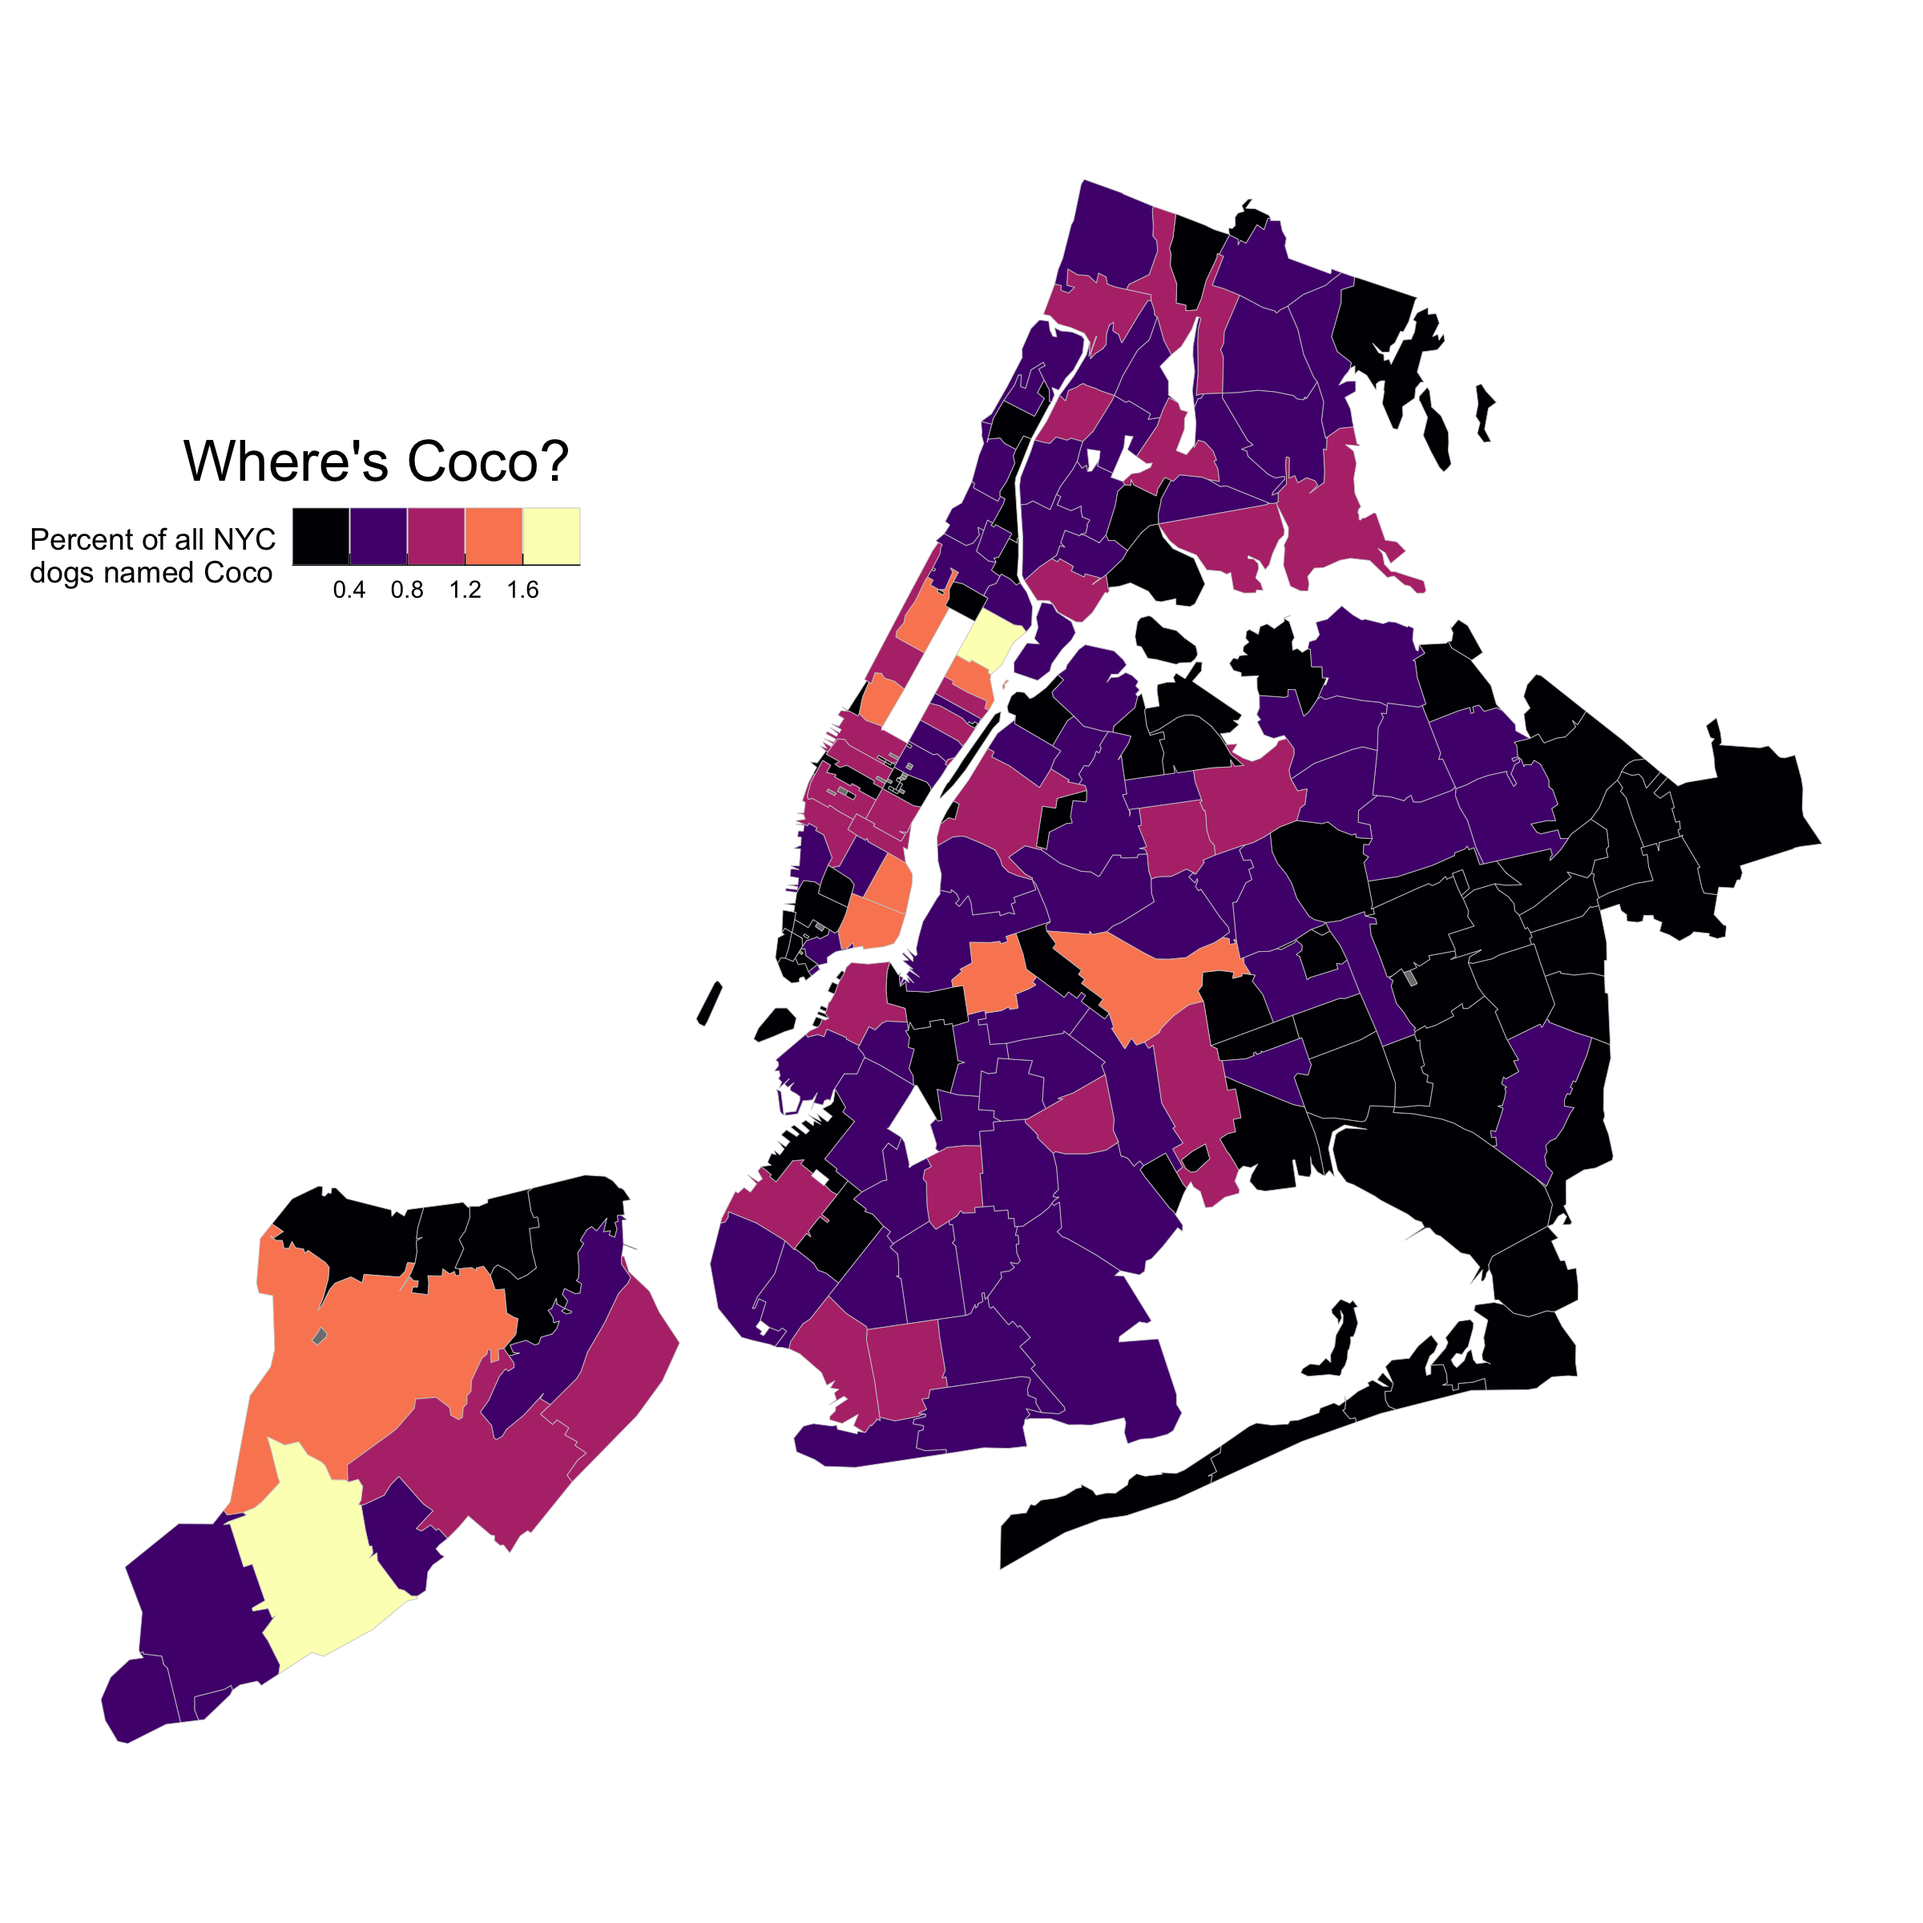
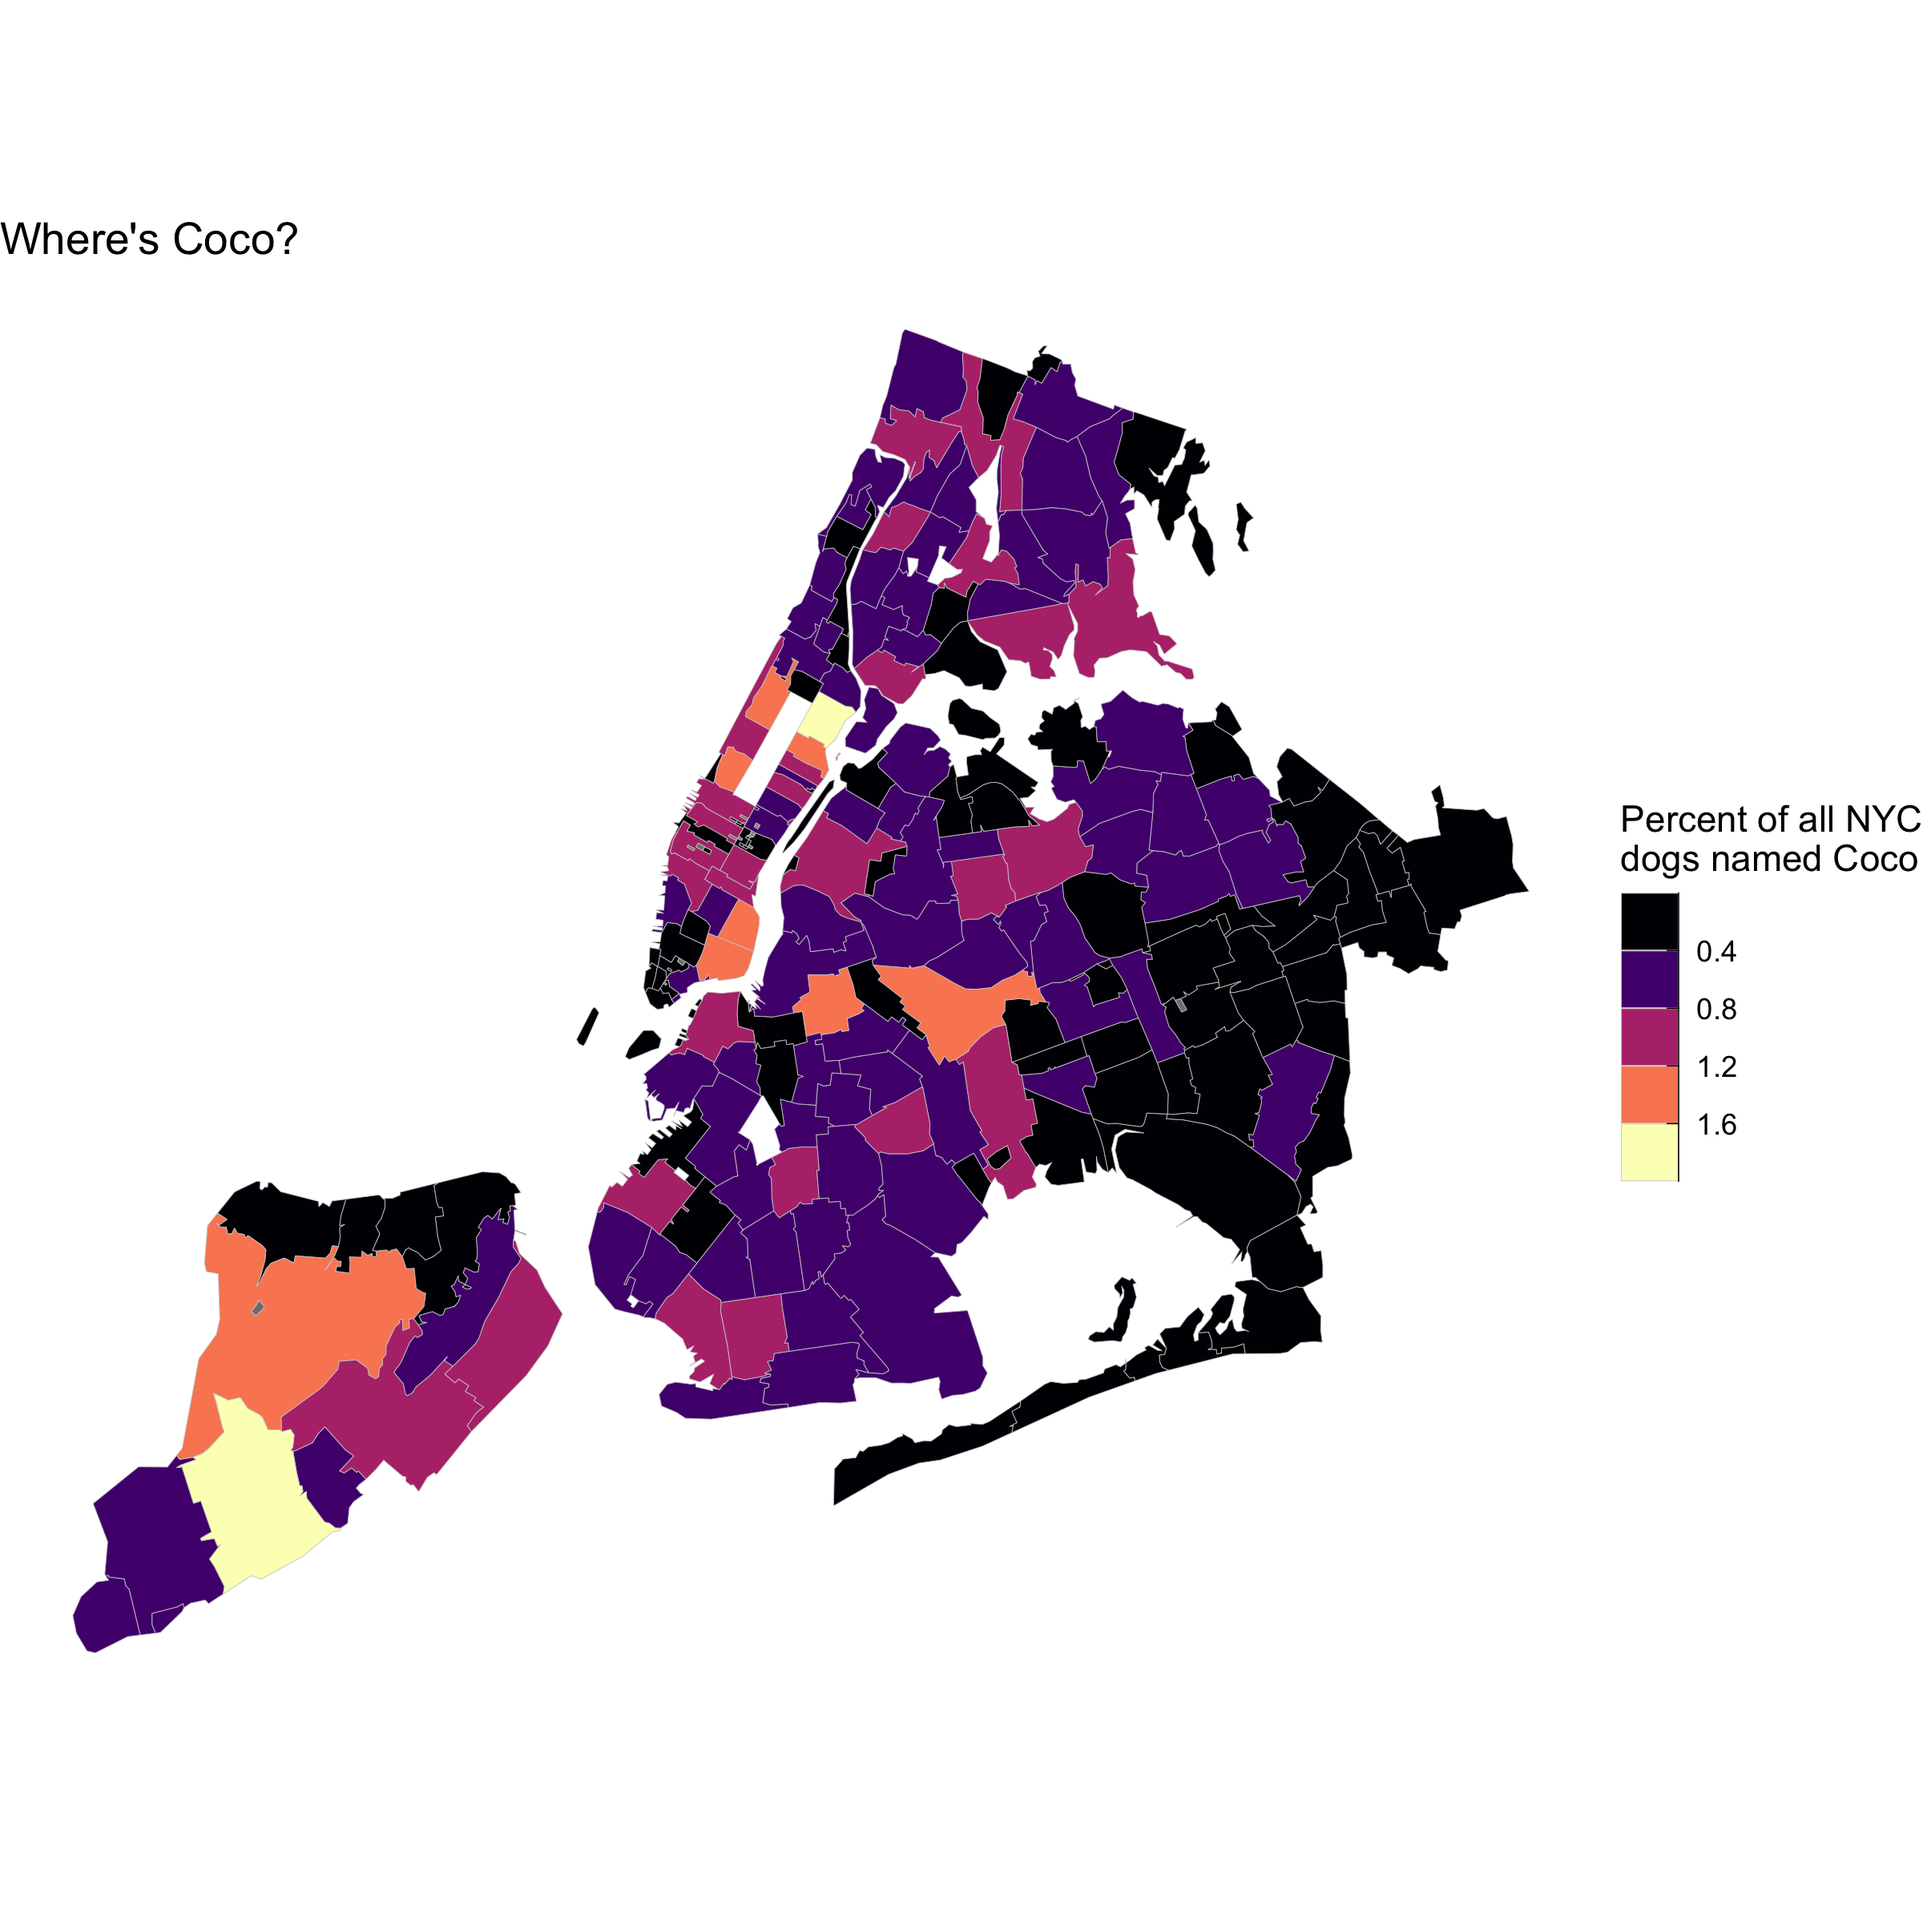
Simplify map example

diff --git a/README.md b/README.md
@@ -221,36 +221,15 @@ nyc_coco
 ## nyc_zip_sf is from the nycmaps package, which is automatically loaded by nycdogs.
 coco_map <- left_join(nyc_zip_sf, nyc_coco, by = join_by(zip))
 
-## Map theme
-theme_nymap <- function(base_size=9, base_family="") {
-    require(grid)
-    theme_bw(base_size=base_size, base_family=base_family) %+replace%
-        theme(axis.line=element_blank(),
-              axis.text=element_blank(),
-              axis.ticks=element_blank(),
-              axis.title=element_blank(),
-              panel.background=element_blank(),
-              panel.border=element_blank(),
-              panel.grid=element_blank(),
-              panel.spacing=unit(0, "lines"),
-              plot.background=element_blank(),
-              legend.justification = c(0,0),
-              legend.position = "inside",
-              legend.position.inside = c(0, 0.7),
-              legend.direction = "horizontal"
-        )
-}
-
-coco_map |> ggplot(mapping = aes(fill = pct)) +
-    geom_sf(color = "gray80", linewidth = 0.1) +
-    scale_fill_binned(guide = "bins", type = "viridis", option = "A") +
-    labs(fill = "Percent of all NYC\ndogs named Coco") +
-  annotate(geom = "text", x = -74.16, y = 40.84,
-           label = "Where's Coco?", size = 6) +
-  ## The map is in EPSG:2263; the annotation is positioned by lon/lat
-  coord_sf(default_crs = sf::st_crs(4326)) +
-    theme_nymap()
-#> Loading required package: grid
+coco_map |>
+  ggplot(mapping = aes(fill = pct)) +
+  geom_sf(color = "gray80", linewidth = 0.1) +
+  scale_fill_binned(guide = "bins", type = "viridis", option = "A") +
+  labs(
+    title = "Where's Coco?",
+    fill = "Percent of all NYC\ndogs named Coco"
+  ) +
+  theme_void()
 ```
 
 <div class="figure">
